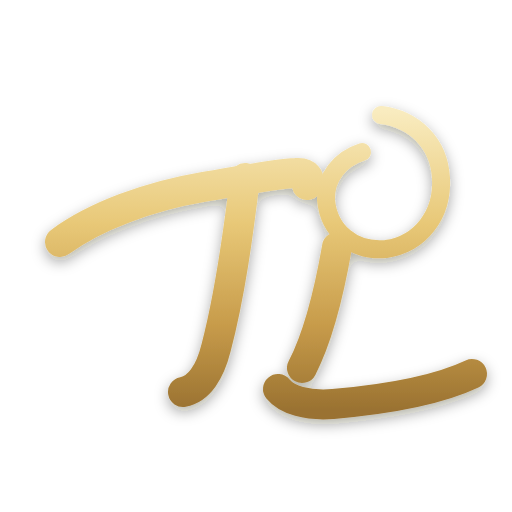
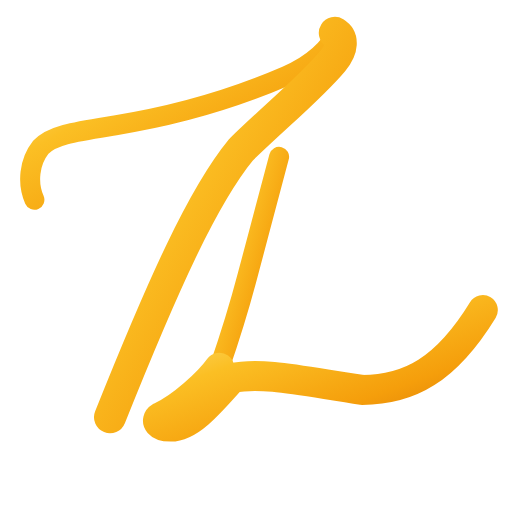
feat(branding): implement calligraphy TL monogram from user reference drawing (v6)

Changed region(s): [[0.0312, 0.0312, 0.9688, 0.875]]

diff --git a/pages/_document.js b/pages/_document.js
@@ -4,12 +4,12 @@ export default function Document() {
   return (
     <Html>
       <Head>
-        <link rel="shortcut icon" href="/favicon.ico?v=5" />
-        <link rel="icon" type="image/x-icon" href="/favicon.ico?v=5" />
-        <link rel="icon" type="image/svg+xml" href="/favicon.svg?v=5" />
-        <link rel="icon" type="image/png" sizes="32x32" href="/favicon-32x32.png?v=5" />
-        <link rel="icon" type="image/png" sizes="16x16" href="/favicon-16x16.png?v=5" />
-        <link rel="apple-touch-icon" sizes="180x180" href="/apple-touch-icon.png?v=5" />
+        <link rel="shortcut icon" href="/favicon.ico?v=6" />
+        <link rel="icon" type="image/x-icon" href="/favicon.ico?v=6" />
+        <link rel="icon" type="image/svg+xml" href="/favicon.svg?v=6" />
+        <link rel="icon" type="image/png" sizes="32x32" href="/favicon-32x32.png?v=6" />
+        <link rel="icon" type="image/png" sizes="16x16" href="/favicon-16x16.png?v=6" />
+        <link rel="apple-touch-icon" sizes="180x180" href="/apple-touch-icon.png?v=6" />
         <link rel="preconnect" href="https://fonts.googleapis.com" />
         <link rel="preconnect" href="https://fonts.gstatic.com" crossOrigin="true" />
         <link href="https://fonts.googleapis.com/css2?family=Plus+Jakarta+Sans:wght@400;500;600;700;800&display=swap" rel="stylesheet" />

diff --git a/src/components/Layout/Metadata.jsx b/src/components/Layout/Metadata.jsx
@@ -20,12 +20,12 @@ export const SiteMetadata = ({
       <meta name="theme-color" content="#0369A1" />
       <meta name="color-scheme" content="light" />
 
-      <link rel="shortcut icon" href="/favicon.ico?v=5" />
-      <link rel="icon" type="image/x-icon" href="/favicon.ico?v=5" />
-      <link rel="icon" type="image/svg+xml" href="/favicon.svg?v=5" />
-      <link rel="icon" type="image/png" sizes="32x32" href="/favicon-32x32.png?v=5" />
-      <link rel="icon" type="image/png" sizes="16x16" href="/favicon-16x16.png?v=5" />
-      <link rel="apple-touch-icon" sizes="180x180" href="/apple-touch-icon.png?v=5" />
+      <link rel="shortcut icon" href="/favicon.ico?v=6" />
+      <link rel="icon" type="image/x-icon" href="/favicon.ico?v=6" />
+      <link rel="icon" type="image/svg+xml" href="/favicon.svg?v=6" />
+      <link rel="icon" type="image/png" sizes="32x32" href="/favicon-32x32.png?v=6" />
+      <link rel="icon" type="image/png" sizes="16x16" href="/favicon-16x16.png?v=6" />
+      <link rel="apple-touch-icon" sizes="180x180" href="/apple-touch-icon.png?v=6" />
       <link rel="manifest" href="/site.webmanifest" />
 
       <meta property="og:type" content="website" />
